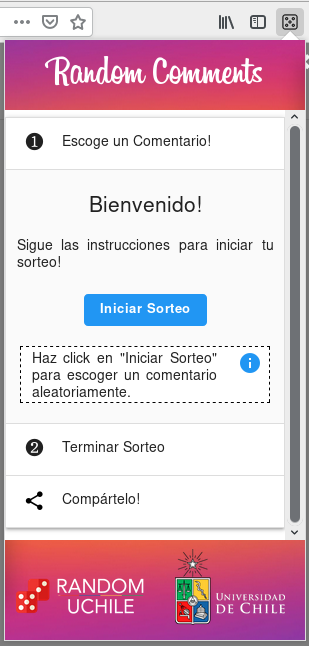
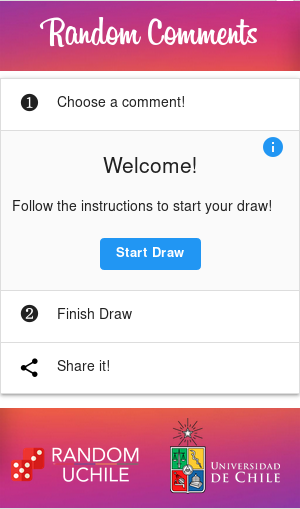
changed readme image and fixed links

diff --git a/README.md b/README.md
@@ -45,8 +45,8 @@ documentación necesaria para saber cómo implementar una aplicación utilizando
 Esta sección está dividida en dos partes, la primera trata sobre la implementación de la extensión en sí, mientras que 
 la segunda se enfoca en explicar cómo se interactua con la API de Random UChile.
 
-* Random Comments (<a href="" target="_blank"></a>)
-* API Random UChile (<a href="" target="_blank"></a>)
+* [Random Comments](documentation/randomcomments.md)
+* [API Random UChile](documentation/randomuchile.md)
  
 
  

diff --git a/documentation/randomuchile.md b/documentation/randomuchile.md
@@ -110,5 +110,5 @@ El proceso en general, puede ser descrito por el siguiente diagrama de secuencia
 </p>
 
 Donde se agregó un *Share Server* que sirve para indicar que se publicó
-la información del proceso realizado en alguna lugar para que una tercera
+la información del proceso realizado en algunamansin lugar para que una tercera
 parte pueda verificar la correctitud del mismo.
